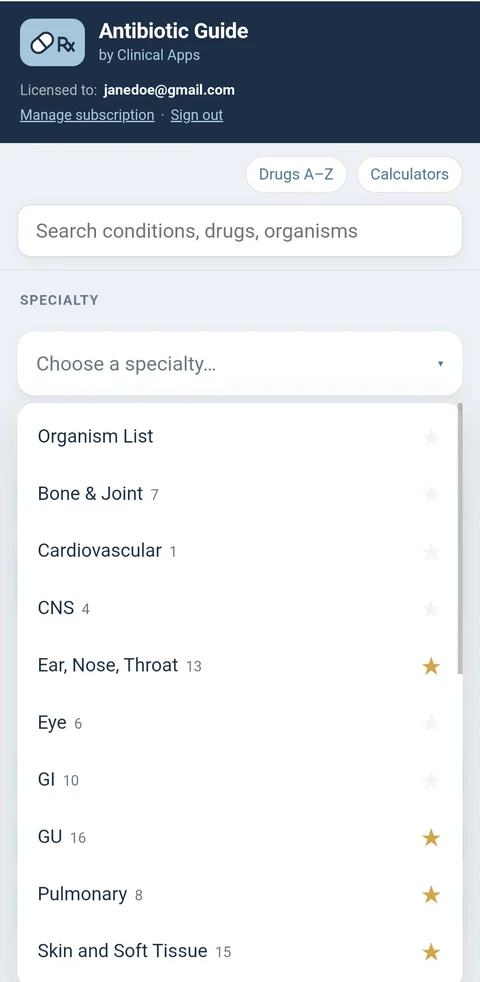
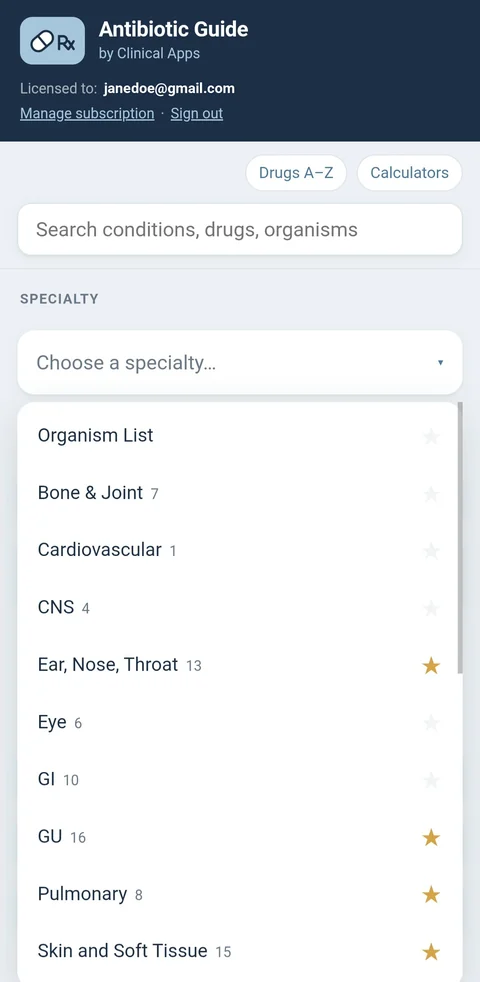
Clinicians: thinner phone frames, trim Antibiotic Guide screenshot, app domain links
Claude-Session: https://claude.ai/code/session_01VuJWRKWHPDiw3LSrJhQLiA

diff --git a/site/clinicians.html b/site/clinicians.html
@@ -96,7 +96,7 @@
         <p class="app-kicker">Hormone therapy</p>
         <h2>BHRT Navigator</h2>
         <p>Female and male protocols, candidacy screening, searchable Rx cards, estradiol conversion charts and a compounding dose calculator, sequenced the way a visit unfolds. Add the 184-page course if you want the full framework behind it. <b>$149/year, or $599 with the course.</b></p>
-        <a class="btn btn-dark" href="#bhrt">Explore BHRT Navigator <span class="arrow">&darr;</span></a>
+        <div class="app-links"><a class="btn btn-dark" href="#bhrt">Explore BHRT Navigator <span class="arrow">&darr;</span></a><a class="app-domain" href="https://bhrt.app" target="_blank" rel="noopener">bhrt.app <span aria-hidden="true">&#8599;</span></a></div>
       </div>
     </div>
     <div class="app-row rev">
@@ -108,7 +108,7 @@
         <p class="app-kicker">Antibiotics</p>
         <h2>Antibiotic Guide</h2>
         <p>Empiric antibiotic choices by specialty and condition, for adults and children. Enter a weight and get the first-line drug, the dose, the best-fit formulation and a ready-to-copy prescription. Search by condition, drug or organism, with a drugs A&ndash;Z and calculators built in. <b>$24.99/year.</b></p>
-        <a class="btn btn-dark" href="#abx">Explore Antibiotic Guide <span class="arrow">&darr;</span></a>
+        <div class="app-links"><a class="btn btn-dark" href="#abx">Explore Antibiotic Guide <span class="arrow">&darr;</span></a><a class="app-domain" href="https://abxguide.app" target="_blank" rel="noopener">abxguide.app <span aria-hidden="true">&#8599;</span></a></div>
       </div>
     </div>
   </div>

diff --git a/src/pages/clinicians.html b/src/pages/clinicians.html
@@ -24,7 +24,7 @@
         <p class="app-kicker">Hormone therapy</p>
         <h2>BHRT Navigator</h2>
         <p>Female and male protocols, candidacy screening, searchable Rx cards, estradiol conversion charts and a compounding dose calculator, sequenced the way a visit unfolds. Add the 184-page course if you want the full framework behind it. <b>$149/year, or $599 with the course.</b></p>
-        <a class="btn btn-dark" href="#bhrt">Explore BHRT Navigator <span class="arrow">&darr;</span></a>
+        <div class="app-links"><a class="btn btn-dark" href="#bhrt">Explore BHRT Navigator <span class="arrow">&darr;</span></a><a class="app-domain" href="https://bhrt.app" target="_blank" rel="noopener">bhrt.app <span aria-hidden="true">&#8599;</span></a></div>
       </div>
     </div>
     <div class="app-row rev">
@@ -36,7 +36,7 @@
         <p class="app-kicker">Antibiotics</p>
         <h2>Antibiotic Guide</h2>
         <p>Empiric antibiotic choices by specialty and condition, for adults and children. Enter a weight and get the first-line drug, the dose, the best-fit formulation and a ready-to-copy prescription. Search by condition, drug or organism, with a drugs A&ndash;Z and calculators built in. <b>$24.99/year.</b></p>
-        <a class="btn btn-dark" href="#abx">Explore Antibiotic Guide <span class="arrow">&darr;</span></a>
+        <div class="app-links"><a class="btn btn-dark" href="#abx">Explore Antibiotic Guide <span class="arrow">&darr;</span></a><a class="app-domain" href="https://abxguide.app" target="_blank" rel="noopener">abxguide.app <span aria-hidden="true">&#8599;</span></a></div>
       </div>
     </div>
   </div>

diff --git a/site/assets/site.css b/site/assets/site.css
@@ -680,7 +680,7 @@ form.cf{background:var(--white); border-radius:var(--radius); padding:clamp(1.5r
 .clin-hero-grid{display:grid; grid-template-columns:minmax(0,1.25fr) minmax(0,.75fr); gap:clamp(2rem,5vw,4rem); align-items:end}
 .clin-hero h1{max-width:13ch}
 .clin-note{font-size:.88rem; color:var(--muted); margin:1.25rem 0 0}
-.phone{margin:0; border-radius:34px; padding:10px; background:#10333B; box-shadow:0 40px 80px -40px rgba(21,88,99,.55)}
+.phone{margin:0; border-radius:30px; padding:5px; background:#10333B; box-shadow:0 40px 80px -40px rgba(21,88,99,.55)}
 .phone img{display:block; width:100%; height:auto; border-radius:26px}
 .clin-hero-phone{max-width:290px; justify-self:center; transform:rotate(2deg)}
 .cond-head>p{max-width:30em; color:var(--muted); margin:0}
@@ -751,6 +751,9 @@ form.cf{background:var(--white); border-radius:var(--radius); padding:clamp(1.5r
 .app-copy h2{font-size:clamp(2.4rem,4.6vw,3.6rem); margin:0 0 1.1rem}
 .app-copy p{margin:0 0 1.75rem; max-width:34em}
 .app-block{scroll-margin-top:90px}
+.app-links{display:flex; align-items:center; flex-wrap:wrap; gap:.9rem 1.5rem}
+.app-domain{font:500 1rem var(--sans); color:var(--teal-deep); text-decoration:underline; text-underline-offset:4px; text-decoration-color:rgba(21,88,99,.35)}
+.app-domain:hover{text-decoration-color:currentColor}
 @media (max-width:860px){
   .app-row{grid-template-columns:1fr} .app-row.rev .app-shots{order:0}
 }

diff --git a/src/partials/style.css b/src/partials/style.css
@@ -680,7 +680,7 @@ form.cf{background:var(--white); border-radius:var(--radius); padding:clamp(1.5r
 .clin-hero-grid{display:grid; grid-template-columns:minmax(0,1.25fr) minmax(0,.75fr); gap:clamp(2rem,5vw,4rem); align-items:end}
 .clin-hero h1{max-width:13ch}
 .clin-note{font-size:.88rem; color:var(--muted); margin:1.25rem 0 0}
-.phone{margin:0; border-radius:34px; padding:10px; background:#10333B; box-shadow:0 40px 80px -40px rgba(21,88,99,.55)}
+.phone{margin:0; border-radius:30px; padding:5px; background:#10333B; box-shadow:0 40px 80px -40px rgba(21,88,99,.55)}
 .phone img{display:block; width:100%; height:auto; border-radius:26px}
 .clin-hero-phone{max-width:290px; justify-self:center; transform:rotate(2deg)}
 .cond-head>p{max-width:30em; color:var(--muted); margin:0}
@@ -751,6 +751,9 @@ form.cf{background:var(--white); border-radius:var(--radius); padding:clamp(1.5r
 .app-copy h2{font-size:clamp(2.4rem,4.6vw,3.6rem); margin:0 0 1.1rem}
 .app-copy p{margin:0 0 1.75rem; max-width:34em}
 .app-block{scroll-margin-top:90px}
+.app-links{display:flex; align-items:center; flex-wrap:wrap; gap:.9rem 1.5rem}
+.app-domain{font:500 1rem var(--sans); color:var(--teal-deep); text-decoration:underline; text-underline-offset:4px; text-decoration-color:rgba(21,88,99,.35)}
+.app-domain:hover{text-decoration-color:currentColor}
 @media (max-width:860px){
   .app-row{grid-template-columns:1fr} .app-row.rev .app-shots{order:0}
 }
